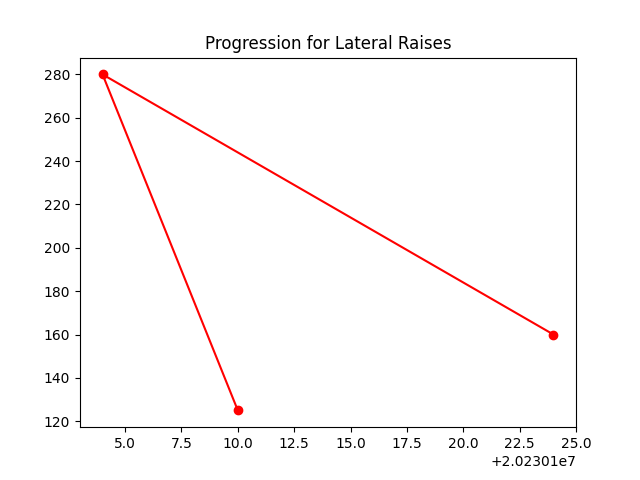
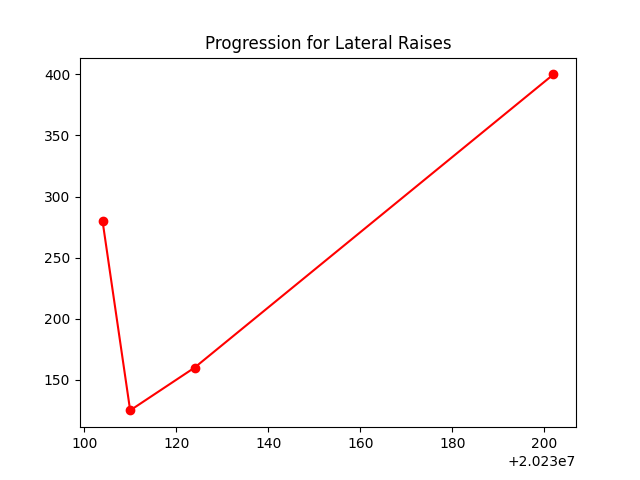
Fixed plot not being sorted by date

diff --git a/db_manager.py b/db_manager.py
@@ -65,7 +65,7 @@ def fetchRows(db, tableNum, date, other_query):
     Parameters: tableNum (int): Table num: 0 for tracker, 1 for heatmap
     ''' # TODO: add all exercises mode?
     cur = db.cursor()
-    searchOptions = __searchOptions(tableNum, date, other_query)
+    searchOptions = __searchOptions(tableNum, date, other_query) + " ORDER BY date"
 
     if tableNum == 0: return cur.execute("SELECT * FROM workouts" + searchOptions).fetchall()
     elif tableNum == 1: return cur.execute("SELECT * FROM heatmap" + searchOptions).fetchall()
